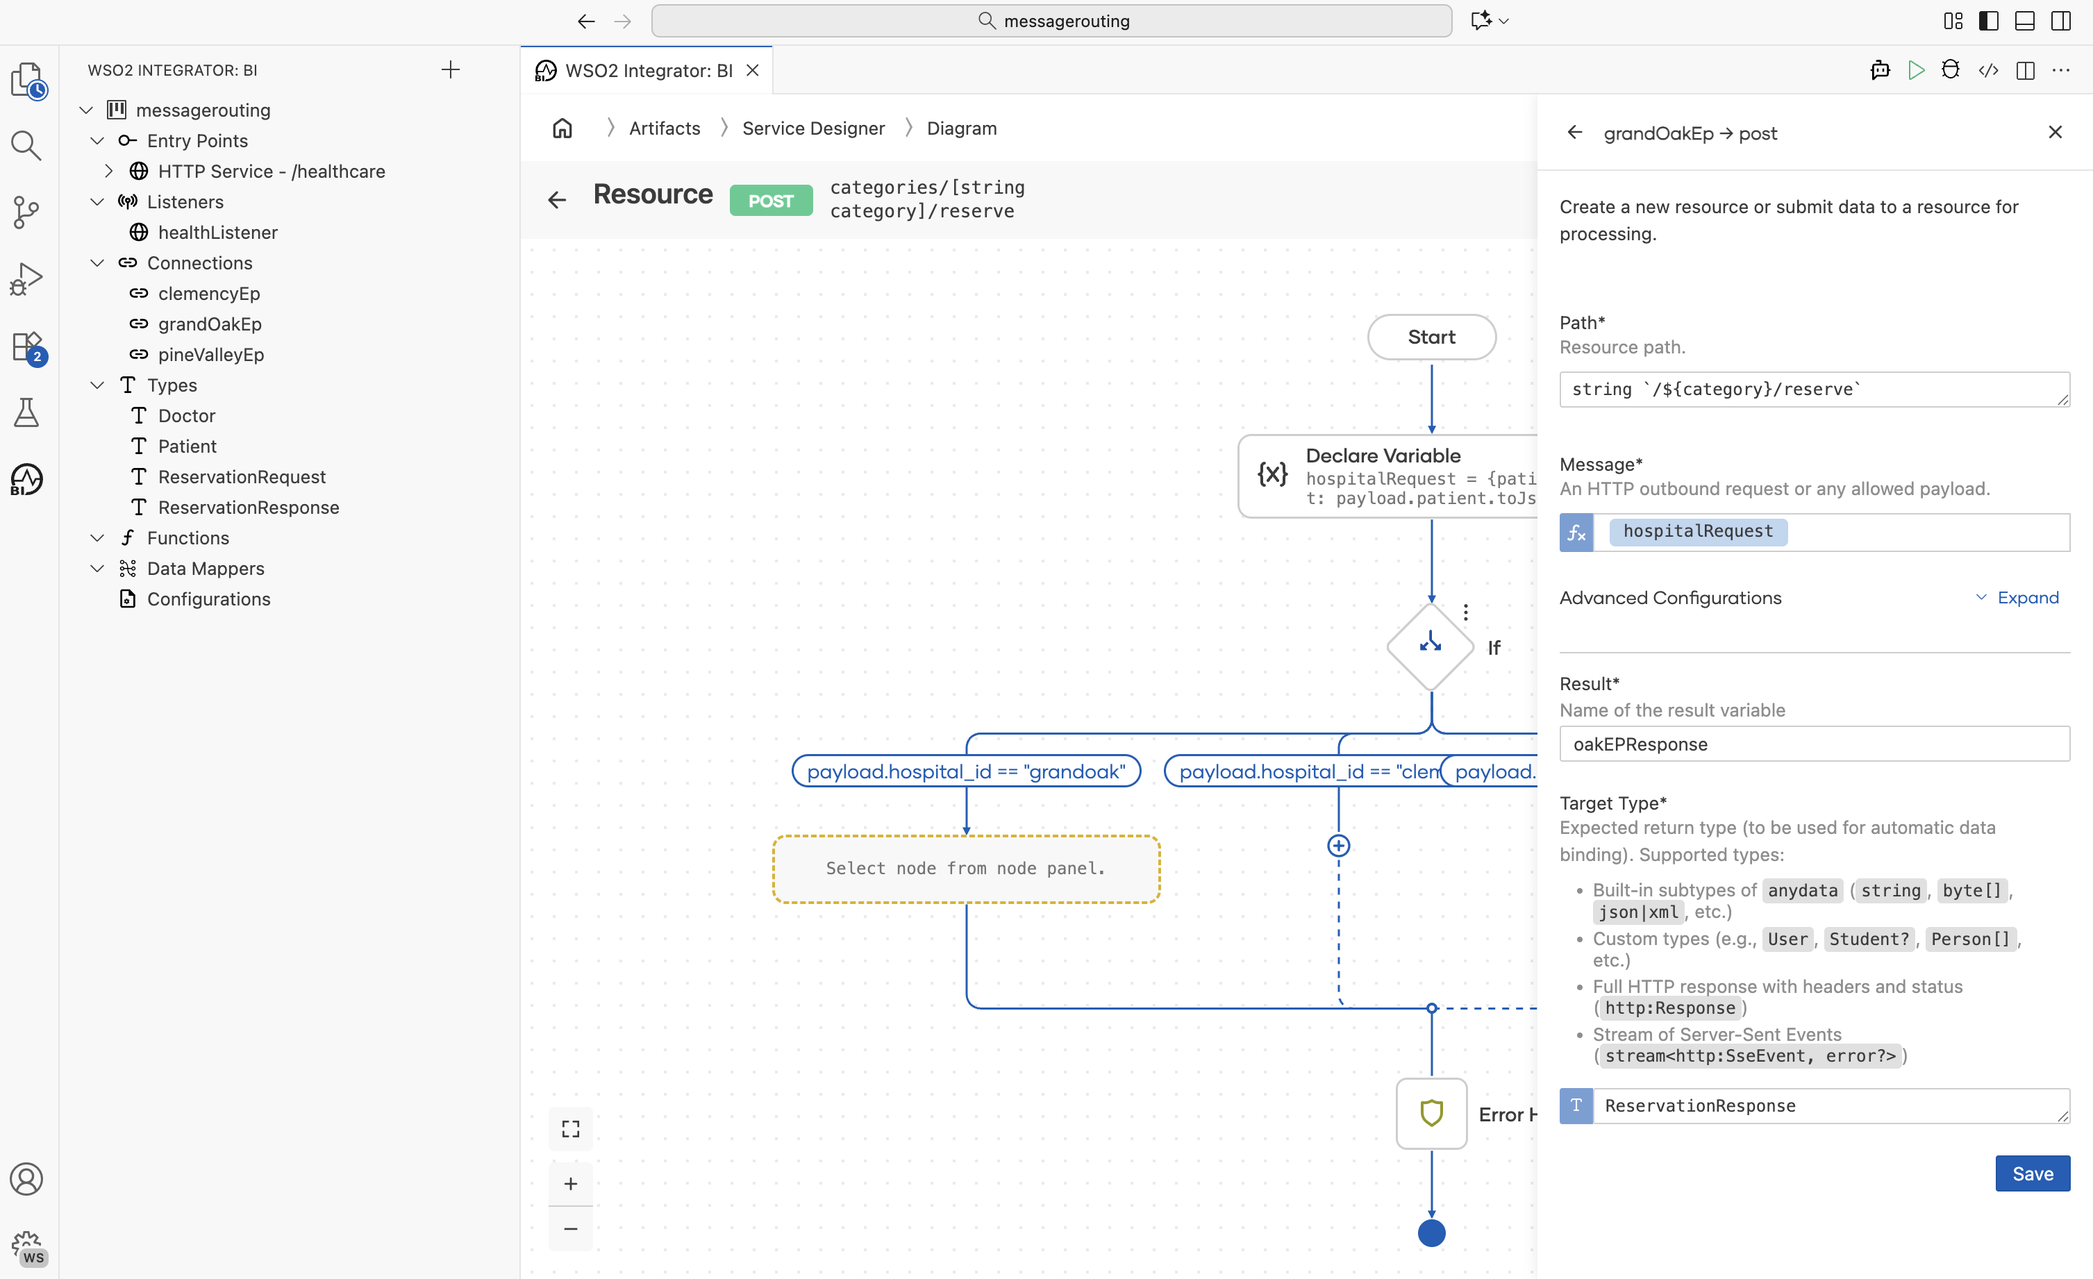
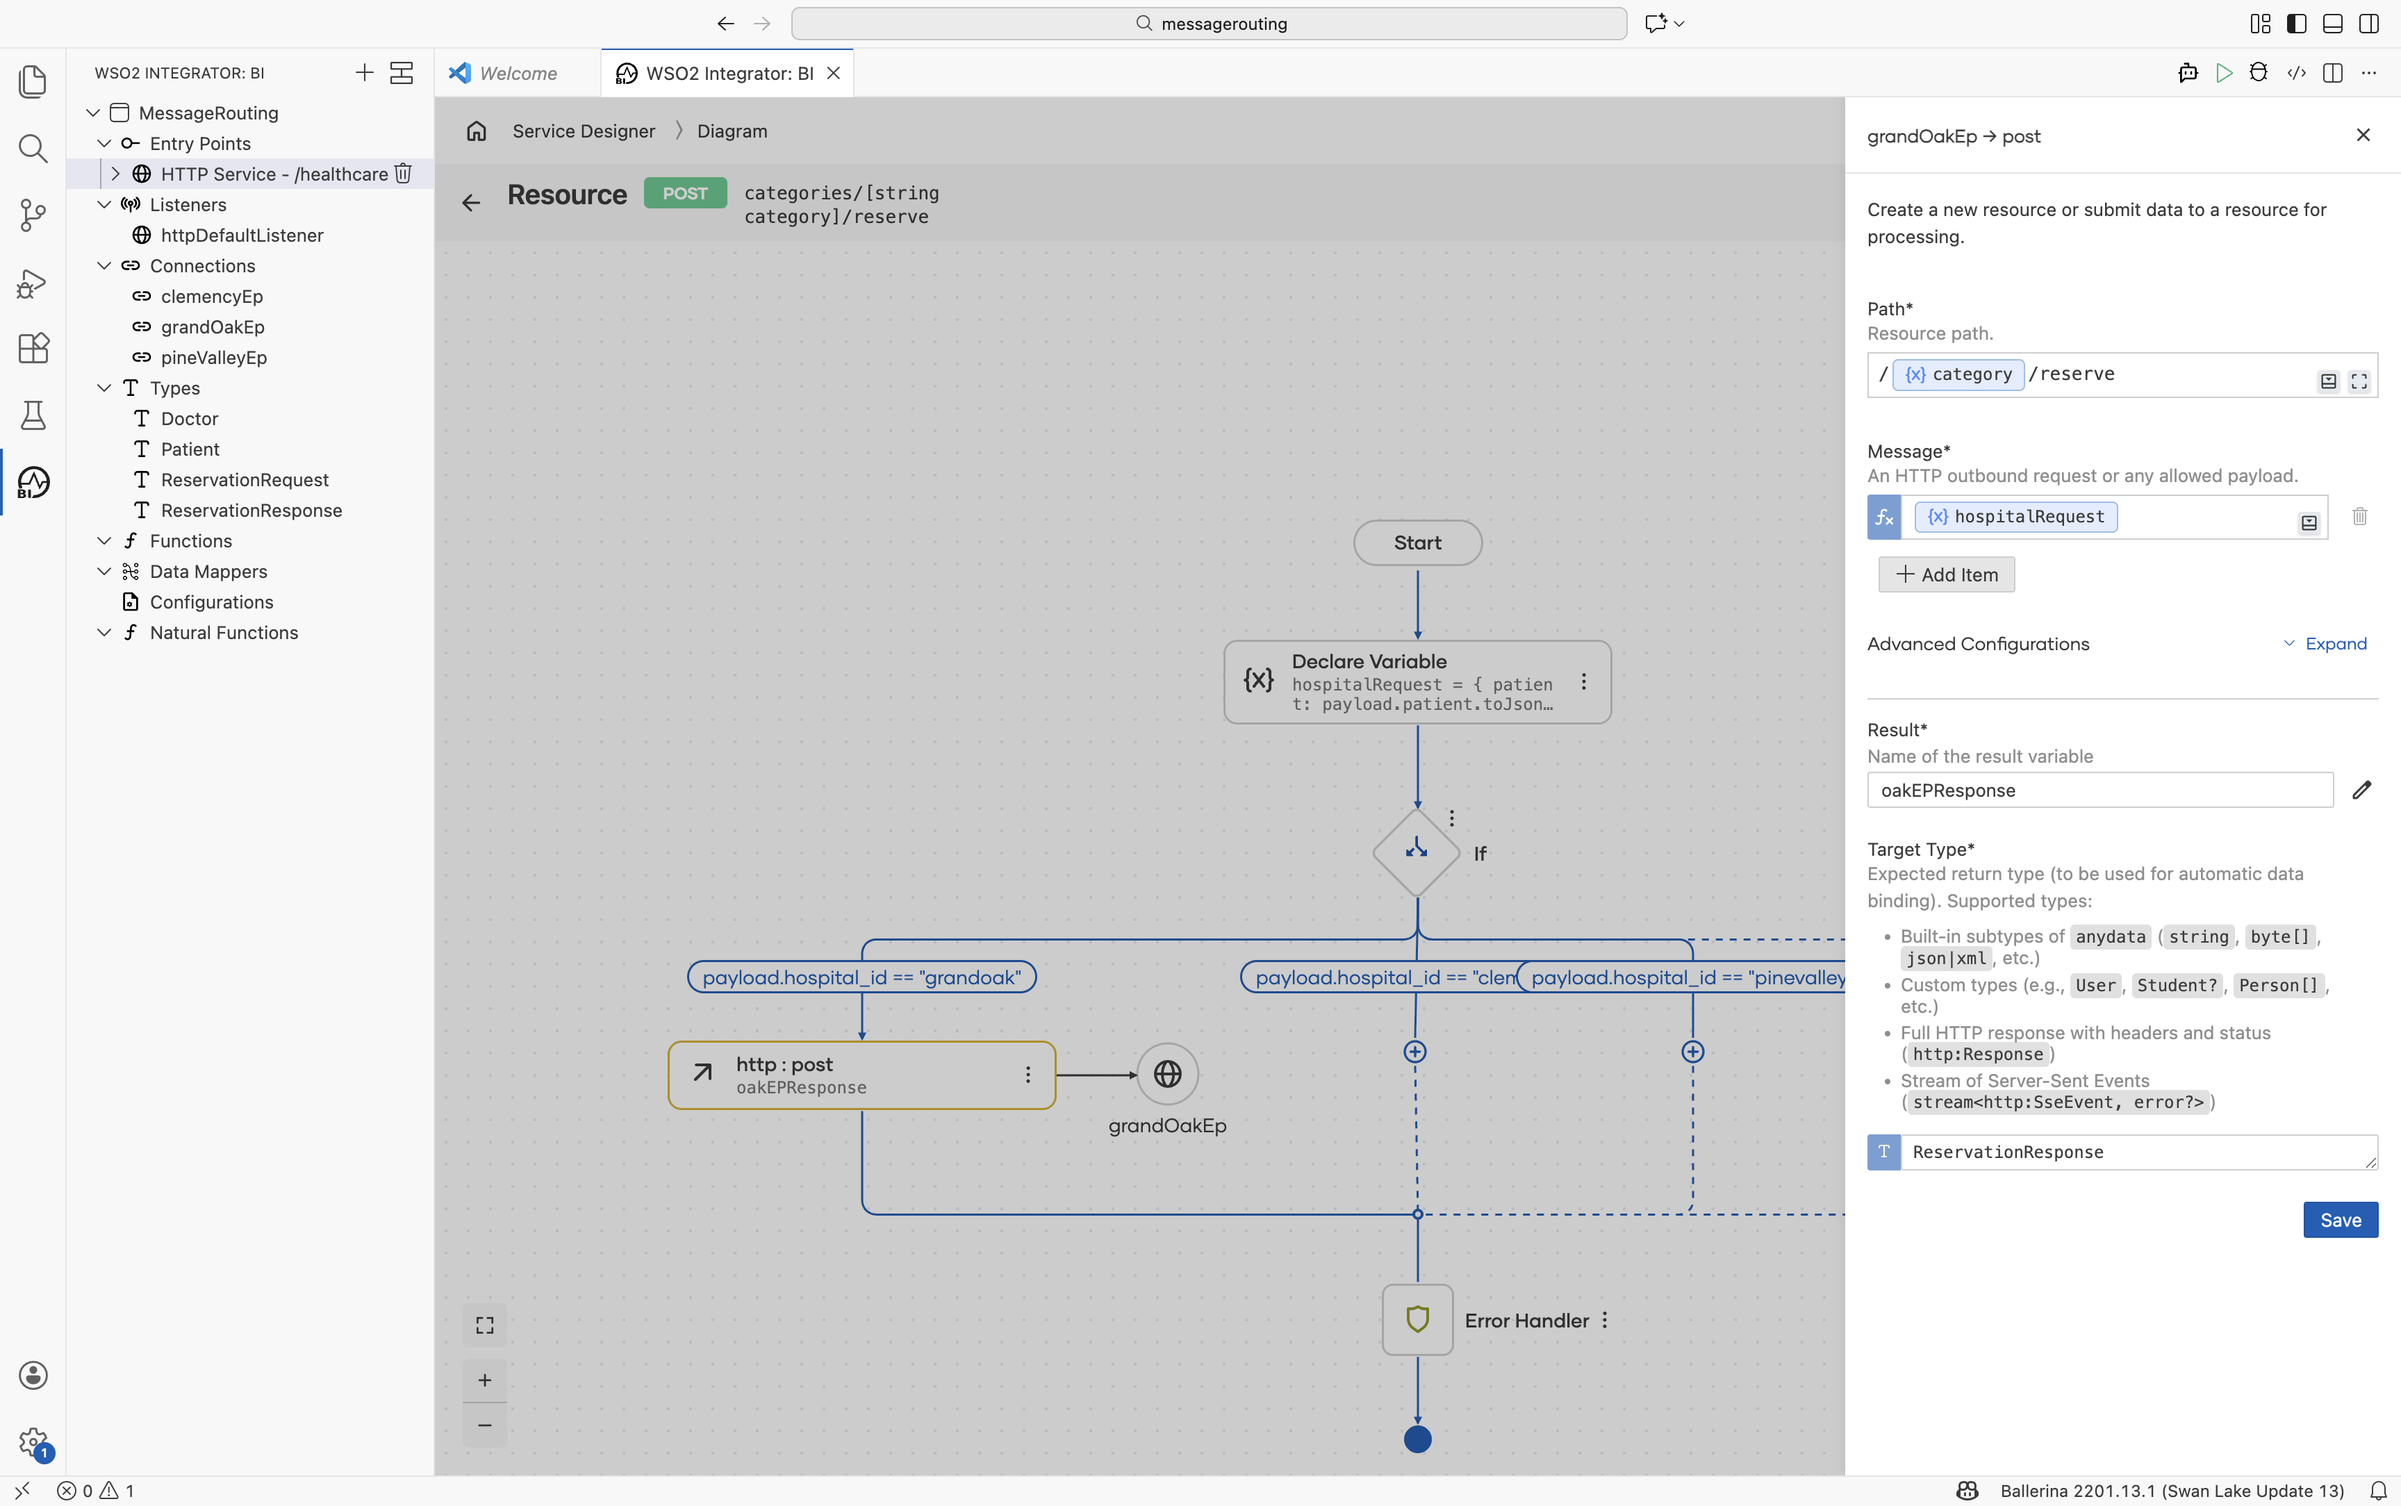
Update connector related content

diff --git a/en/docs/integration-guides/integration-as-api/message-routing.md b/en/docs/integration-guides/integration-as-api/message-routing.md
@@ -165,7 +165,7 @@ Here’s an overview of the process flow.
 2. Delete the default `Return` action from the resource.
 3. Hover to the arrow after start and click the ➕ button to add a new action to the resource.
 4. Select **Declare Variable** from the node panel on the left. This variable will be used to store the request payload for the hospital service.
-5. Change the variable name to `hospitalRequset`, type as `json` and expression as below and click **Save**.
+5. Change the variable name to `hospitalRequest`, type as `json` and expression as below and click **Save**.
     ```ballerina
     {
         patient: payload.patient.toJson(),
@@ -194,7 +194,7 @@ Here’s an overview of the process flow.
     |Variable Name| `oakEPResponse`                       |
     |Variable Type| `ReservationResponse`                 |
     |Path| ```  string `/${category}/reserve` ``` |
-    |Message| `hospitalRequset`                     |
+    |Message| `hospitalRequest`                     |
 
 8. Click **Save**.
 
@@ -216,8 +216,8 @@ Here’s an overview of the process flow.
      |---|----------------------------------------|
     |Variable Name| `clemencyEPResponse`                   |
     |Variable Type| `ReserveResponse`                      |
-    |Path| ```  string `/${category}/reserve` ``` |
-    |Message| `hospitalRequset`                      |
+    |Path| `/${category}/reserve` |
+    |Message| `hospitalRequest`                      |
 
     **pinevalley:**
 
@@ -225,8 +225,8 @@ Here’s an overview of the process flow.
     |---|------------------------|
     |Variable Name| `pineValleyEPResponse` |
     |Variable Type| `ReserveResponse`      |
-    |Path| ```  string `/${category}/reserve` ``` |
-    |Message| `hospitalRequset`      |
+    |Path| `/${category}/reserve` |
+    |Message| `hospitalRequest`      |
 
 12. For the else condition, click on the `If` condition `Else` path ➕ sign and add a **Return** from the node panel. Enter `http:NOT_FOUND` as the value and click **Save**.             
 13. The final design will look like below.             
